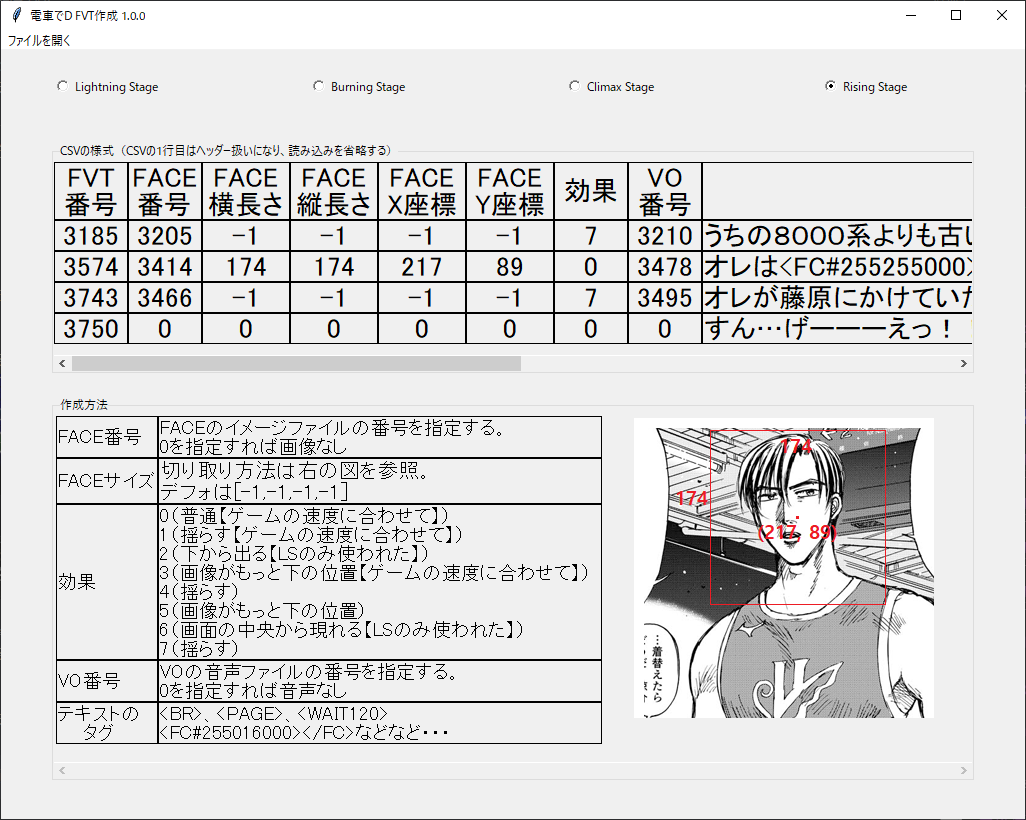
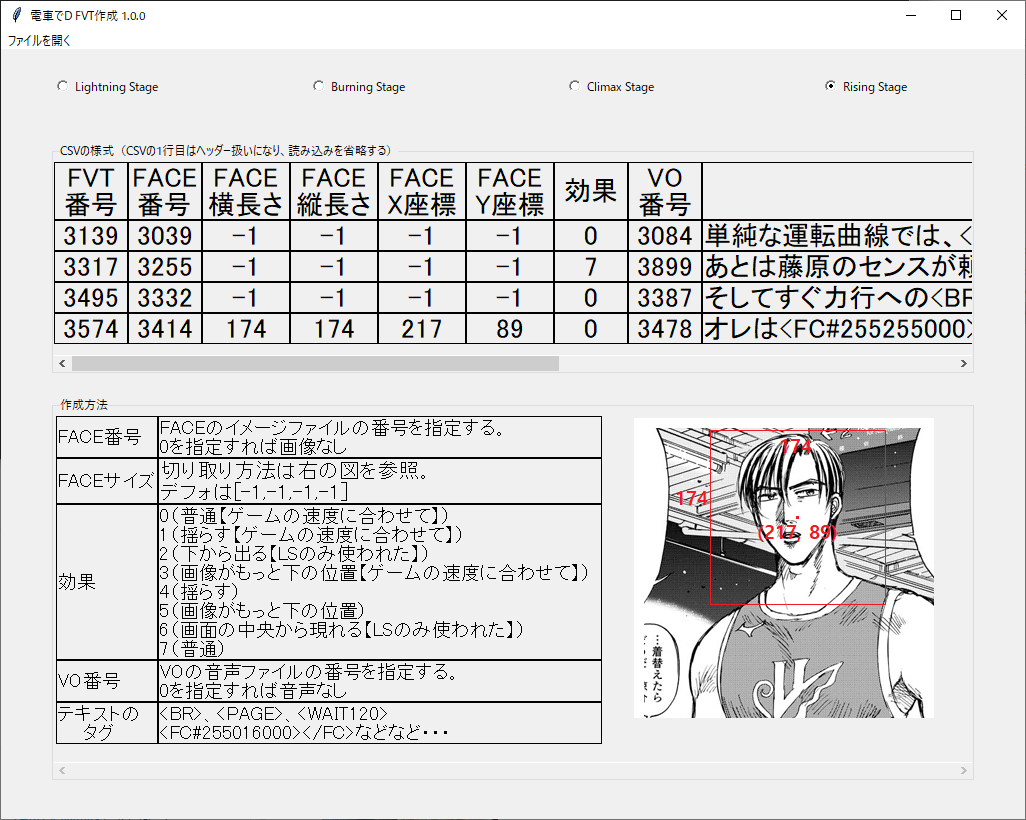
効果の説明修正

diff --git a/maker.py b/maker.py
@@ -182,7 +182,7 @@ class descWidget():
         effectText += "4（揺らす）\n"
         effectText += "5（画像がもっと下の位置）\n"
         effectText += "6（画面の中央から現れる【LSのみ使われた】）\n"
-        effectText += "7（揺らす）"
+        effectText += "7（普通）"
         self.effectDescLb = Label(frame, text=effectText, font=("", fontSize), anchor="w", borderwidth=1, relief="solid", justify="left")
         self.effectDescLb.grid(row=2, column=1, sticky=W+E)
 
